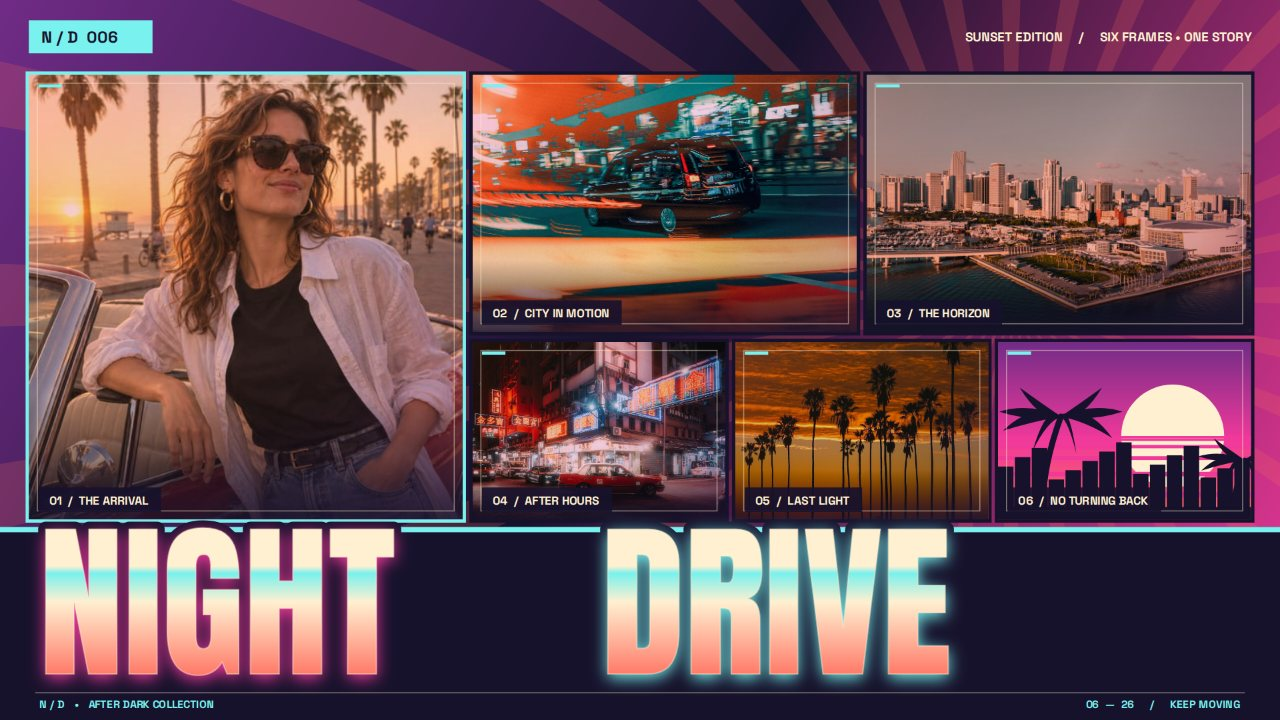
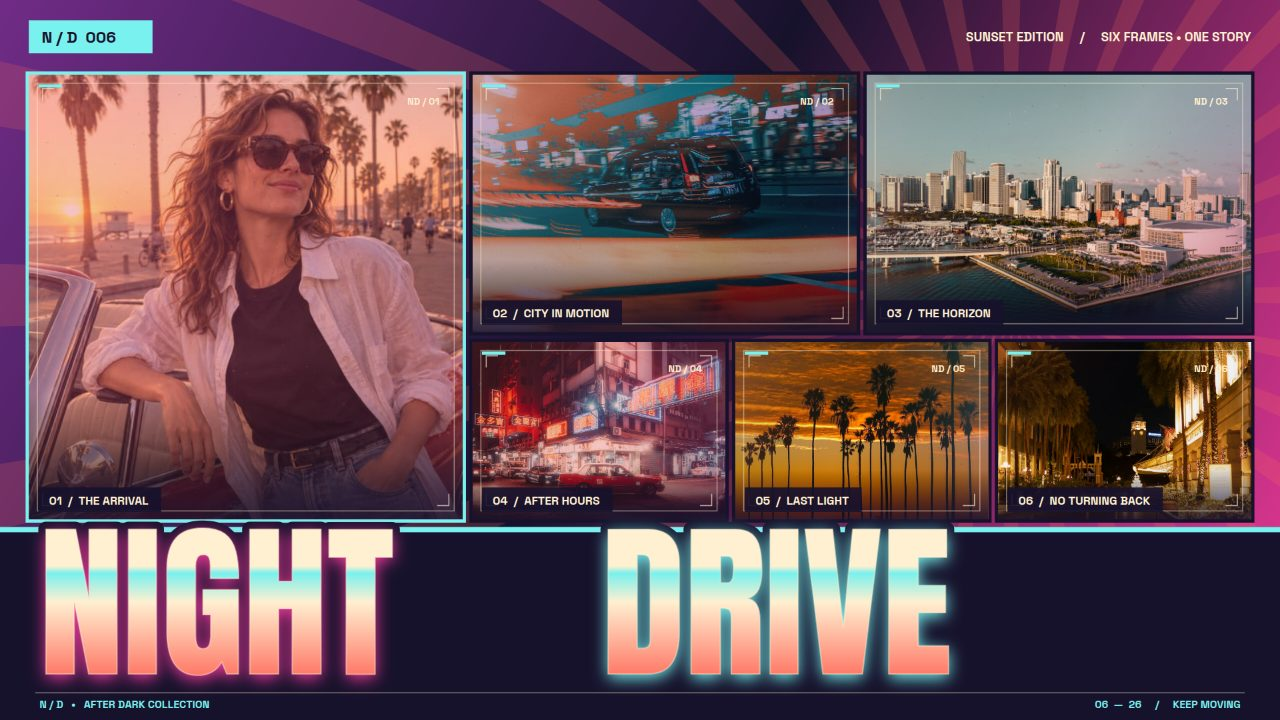
Add six-photo print lab and storyboard controls

diff --git a/app/src/artwork.js b/app/src/artwork.js
@@ -71,7 +71,67 @@ function illustratedFrame(ctx,w,h,p) {
   palm(ctx,w*.93,h*1.19,Math.min(w,h)/320,p.ink);
   box(ctx,0,h*.93,w,h*.07,p.ink);
 }
-function photoInPanel(ctx,img,rect,crop,p,index) {
+// Print treatments are applied in poster space, never destructively to uploaded photos.
+// The grain is a stable coordinate field, not Math.random: exports repeat pixel for pixel.
+function grain(ctx,x,y,w,h,index,amount,p) {
+  if (!amount) return;
+  ctx.save();ctx.beginPath();ctx.rect(x,y,w,h);ctx.clip();
+  let seed=0x9e3779b9 ^ ((index+1)*0x85ebca6b);
+  const random=()=>{seed^=seed<<13;seed^=seed>>>17;seed^=seed<<5;return (seed>>>0)/4294967296;};
+  const count=Math.floor(w*h/180*amount);
+  for(let n=0;n<count;n++) {
+    const px=x+random()*w,py=y+random()*h;
+    ctx.globalAlpha=(.12+random()*.25)*amount;
+    box(ctx,px,py,random()>.9?2:1,random()>.9?2:1,random()>.5?p.cream:p.ink);
+  }
+  ctx.restore();
+}
+function lightLeaks(ctx,x,y,w,h,p,index,strength) {
+  ctx.save();ctx.globalCompositeOperation='screen';
+  const edge=index%2===0?x:x+w;
+  const flare=ctx.createRadialGradient(edge,y+h*.25,0,edge,y+h*.25,Math.max(w,h)*.9);
+  flare.addColorStop(0,p.coral+'aa');flare.addColorStop(.32,p.pink+'44');flare.addColorStop(1,p.pink+'00');
+  ctx.globalAlpha=strength;box(ctx,x,y,w,h,flare);ctx.restore();
+}
+function gradePhoto(ctx,rect,p,index,treatment,strength) {
+  const [x,y,w,h]=rect;
+  if(treatment==='Clean' || strength===0) return;
+  ctx.save();ctx.globalAlpha=strength;
+  if(treatment==='Chromatic') {
+    ctx.globalCompositeOperation='multiply';
+    const wash=ctx.createLinearGradient(x,y,x+w,y+h);
+    wash.addColorStop(0,p.cyan+'c9');wash.addColorStop(.48,p.cream+'55');wash.addColorStop(1,p.pink+'bd');
+    box(ctx,x,y,w,h,wash);
+    ctx.globalCompositeOperation='screen';
+    const rim=ctx.createLinearGradient(x,y,x+w,y);
+    rim.addColorStop(0,p.coral+'50');rim.addColorStop(.5,'#00000000');rim.addColorStop(1,p.cyan+'55');
+    box(ctx,x,y,w,h,rim);
+  } else if(treatment==='Midnight') {
+    ctx.globalCompositeOperation='multiply';
+    box(ctx,x,y,w,h,p.violet+'c4');
+    const moon=ctx.createLinearGradient(x,y,x+w,y+h);
+    moon.addColorStop(0,p.cyan+'80');moon.addColorStop(1,p.ink+'00');
+    ctx.globalCompositeOperation='screen';box(ctx,x,y,w,h,moon);
+  } else {
+    ctx.globalCompositeOperation='multiply';box(ctx,x,y,w,h,p.coral+'8a');
+    ctx.globalCompositeOperation='screen';box(ctx,x,y,w,h,p.pink+'32');
+  }
+  ctx.restore();
+  if(treatment==='Afterglow') lightLeaks(ctx,x,y,w,h,p,index,strength*.72);
+  grain(ctx,x,y,w,h,index,strength*.75,p);
+}
+function registration(ctx,rect,p,index) {
+  const [x,y,w,h]=rect;
+  ctx.save();ctx.strokeStyle=p.cream+'aa';ctx.lineWidth=1;
+  // The asymmetrical crop marks reference a contact print's frame edge.
+  for(const [cx,cy,dx,dy] of [[x+13,y+13,1,1],[x+w-13,y+13,-1,1],[x+13,y+h-13,1,-1],[x+w-13,y+h-13,-1,-1]]) {
+    ctx.beginPath();ctx.moveTo(cx+dx*11,cy);ctx.lineTo(cx,cy);ctx.lineTo(cx,cy+dy*11);ctx.stroke();
+  }
+  ctx.fillStyle=p.cream;ctx.font='700 9px SpaceGrotesk';ctx.textAlign='right';
+  ctx.fillText(`ND / ${String(index+1).padStart(2,'0')}`,x+w-22,y+28);
+  ctx.restore();
+}
+function photoInPanel(ctx,img,rect,crop,p,index,treatment,strength) {
   const [x,y,w,h]=rect;
   ctx.save();ctx.beginPath();ctx.rect(x,y,w,h);ctx.clip();
   if (img) {
@@ -80,19 +140,19 @@ function photoInPanel(ctx,img,rect,crop,p,index) {
     const sx=Math.max(0,Math.min(iw-cw,(iw-cw)*crop.x));
     const sy=Math.max(0,Math.min(ih-ch,(ih-ch)*crop.y));
     ctx.drawImage(img,sx,sy,cw,ch,x,y,w,h);
-    ctx.globalCompositeOperation='multiply';box(ctx,x,y,w,h,(index===0?p.coral:index===2?p.coral:index%2?p.pink:p.violet)+(index===2?'62':'38'));
-    ctx.globalCompositeOperation='source-over';
-    const glow=ctx.createLinearGradient(x,y,x+w,y+h);glow.addColorStop(0,p.coral+'25');glow.addColorStop(.53,'#00000000');glow.addColorStop(1,p.violet+'54');box(ctx,x,y,w,h,glow);
+    gradePhoto(ctx,rect,p,index,treatment,strength);
+    const glow=ctx.createLinearGradient(x,y,x+w,y+h);glow.addColorStop(0,p.coral+'20');glow.addColorStop(.53,'#00000000');glow.addColorStop(1,p.violet+'38');box(ctx,x,y,w,h,glow);
     const shade=ctx.createLinearGradient(0,y,0,y+h);shade.addColorStop(0,'#00000000');shade.addColorStop(.72,'#00000000');shade.addColorStop(1,p.ink+'d9');box(ctx,x,y,w,h,shade);
   } else {ctx.translate(x,y);illustratedFrame(ctx,w,h,p);ctx.translate(-x,-y);}
   // A small inset registration line gives each frame the feel of a printed plate.
   ctx.strokeStyle=p.cream+'75';ctx.lineWidth=1;ctx.strokeRect(x+8,y+8,w-16,h-16);
   ctx.restore();
 }
-function panel(ctx,rect,img,crop,p,index,selected) {
+function panel(ctx,rect,img,crop,p,index,selected,treatment,strength) {
   const [x,y,w,h]=rect;
   box(ctx,x-3,y-3,w+6,h+6,index===selected?p.cyan:p.ink);
-  photoInPanel(ctx,img,rect,crop,p,index);
+  photoInPanel(ctx,img,rect,crop,p,index,treatment,strength);
+  registration(ctx,rect,p,index);
   const tags=['THE ARRIVAL','CITY IN MOTION','THE HORIZON','AFTER HOURS','LAST LIGHT','NO TURNING BACK'];
   const label=`0${index+1}  /  ${tags[index]}`;
   ctx.font='700 11px SpaceGrotesk';ctx.textAlign='left';
@@ -140,7 +200,7 @@ export function drawCover(canvas,state) {
   box(ctx,27,19,116,31,p.cyan);ctx.fillStyle=p.ink;ctx.font='700 15px SpaceGrotesk';ctx.textAlign='left';ctx.fillText('N / D  006',39,40);
   ctx.fillStyle=p.cream;ctx.font='700 12px SpaceGrotesk';ctx.textAlign='right';ctx.fillText('SUNSET EDITION     /     SIX FRAMES • ONE STORY',1173,39);
   const rects=geometry(W,H,state.layout);
-  rects.forEach((r,i)=>panel(ctx,r,state.images[state.assignments[i]??-1],state.crops[i],p,i,state.selected));
+  rects.forEach((r,i)=>panel(ctx,r,state.images[state.assignments[i]??-1],state.crops[i],p,i,state.selected,state.treatments[i],state.gradeStrength));
   headline(ctx,state.caption,W,H,p);
   return rects;
 }

diff --git a/app/src/main.js b/app/src/main.js
@@ -5,7 +5,9 @@ const canvas = $('cover');
 const state = {
   caption: 'NIGHT DRIVE', palette: 'Afterglow', layout: 'Editorial', format: Object.keys(sizes)[0],
   images: [], names: [], assignments: [-1,-1,-1,-1,-1,-1],
-  crops: Array.from({length:6},()=>({x:.5,y:.5,zoom:1})), selected: 0
+  crops: Array.from({length:6},()=>({x:.5,y:.5,zoom:1})),
+  treatments: ['Afterglow','Midnight','Chromatic','Afterglow','Chromatic','Clean'],
+  gradeStrength: .65, selected: 0
 };
 const repaint = () => drawCover(canvas,state);
 function loadImage(url) {
@@ -50,14 +52,14 @@ async function addPhotos(files) {
 }
 async function demo() {
   try {
-    const urls=['./samples/boulevard.jpg','./samples/night-street.jpg','./samples/skyline.jpg','./samples/neon.jpg','./samples/palms.jpg'];
+    const urls=['./samples/boulevard.jpg','./samples/night-street.jpg','./samples/skyline.jpg','./samples/neon.jpg','./samples/palms.jpg','./samples/night-palms.jpg'];
     state.images=await Promise.all(urls.map(loadImage));
-    state.names=['Boulevard portrait','City in motion','Miami skyline','After-hours street','Sunset palms'];
-    state.assignments=[0,1,2,3,4,-1];
-    // Hand-tuned focal points preserve the model portrait's face and the taxi below it.
-    state.crops=[{x:.47,y:.2,zoom:1},{x:.5,y:.67,zoom:1},{x:.5,y:.48,zoom:1},{x:.5,y:.68,zoom:1},{x:.5,y:.47,zoom:1},{x:.5,y:.5,zoom:1}];
+    state.names=['Boulevard portrait','City in motion','Miami skyline','After-hours street','Sunset palms','Palm-lined night street'];
+    state.assignments=[0,1,2,3,4,5];
+    // Hand-tuned focal points preserve the model portrait's face and each street's leading lines.
+    state.crops=[{x:.47,y:.2,zoom:1},{x:.5,y:.67,zoom:1},{x:.5,y:.48,zoom:1},{x:.5,y:.68,zoom:1},{x:.5,y:.47,zoom:1},{x:.56,y:.43,zoom:1}];
     state.selected=0;refreshPhotos();repaint();
-    $('status').textContent='FIVE LOCAL PHOTOS + ORIGINAL ILLUSTRATION · READY';
+    $('status').textContent='SIX LOCAL PHOTOS · SIX DISTINCT FRAMES · READY';
   } catch {$('status').textContent='Could not load local samples';}
 }
 function syncPanel() {
@@ -72,6 +74,9 @@ function syncPanel() {
   [...$('photoList').children].forEach((chip,i)=>chip.classList.toggle('selected',state.assignments[state.selected]===i));
   const crop=state.crops[state.selected];
   $('zoom').value=crop.zoom; $('panX').value=crop.x; $('panY').value=crop.y;
+  $('treatment').value=state.treatments[state.selected];
+  $('gradeStrength').value=state.gradeStrength;
+  $('sourceCount').textContent=`${state.images.length} LOCAL SOURCE${state.images.length===1?'':'S'}`;
 }
 function setFormat(name) {
   state.format=name; [canvas.width,canvas.height]=sizes[name];
@@ -102,6 +107,43 @@ for(const type of ['dragleave','drop']) drop.addEventListener(type,e=>{e.prevent
 drop.addEventListener('drop',e=>addPhotos(e.dataTransfer.files));
 $('panelPhoto').addEventListener('change',e=>{state.assignments[state.selected]=Number(e.target.value);syncPanel();repaint();});
 $('resetCrop').addEventListener('click',()=>{state.crops[state.selected]={x:.5,y:.5,zoom:1};syncPanel();repaint();});
+$('treatment').addEventListener('change',e=>{
+  state.treatments[state.selected]=e.target.value;
+  $('status').textContent=`FRAME ${state.selected+1} · ${e.target.value.toUpperCase()} PRINT`;
+  repaint();
+});
+$('gradeStrength').addEventListener('input',e=>{
+  state.gradeStrength=Number(e.target.value);
+  $('gradeValue').textContent=`${Math.round(state.gradeStrength*100)}%`;
+  repaint();
+});
+function sequencePhotos(offset=0) {
+  if(!state.images.length) {
+    $('status').textContent='ADD A PHOTO OR LOAD THE SAMPLE STORY FIRST';
+    return;
+  }
+  // A storyboard is six independent edits: sequencing never overwrites crops or grades.
+  state.assignments=state.assignments.map((_,i)=>(i+offset+state.images.length)%state.images.length);
+  refreshPhotos();repaint();
+  $('status').textContent=`SIX FRAMES SEQUENCED · ${state.images.length} SOURCE${state.images.length===1?'':'S'}`;
+}
+$('sequence').addEventListener('click',()=>sequencePhotos());
+$('rotate').addEventListener('click',()=>{
+  if(!state.images.length) {sequencePhotos();return;}
+  const next=state.assignments.map((value,i)=>{
+    const current=value<0?i%state.images.length:value;
+    return (current+1)%state.images.length;
+  });
+  state.assignments=next;refreshPhotos();repaint();
+  $('status').textContent='STORY ADVANCED ONE FRAME';
+});
+document.addEventListener('keydown',e=>{
+  if(!['ArrowLeft','ArrowRight'].includes(e.key) ||
+    ['INPUT','TEXTAREA','SELECT'].includes(document.activeElement.tagName)) return;
+  e.preventDefault();
+  state.selected=(state.selected+(e.key==='ArrowRight'?1:5))%6;
+  syncPanel();repaint();
+});
 for(const [id,key] of [['zoom','zoom'],['panX','x'],['panY','y']]) $(''+id).addEventListener('input',e=>{
   state.crops[state.selected][key]=Number(e.target.value); repaint();
 });

diff --git a/app/index.html b/app/index.html
@@ -11,11 +11,12 @@
 <aside class="sidebar">
 <div class="intro"><div class="eyebrow">01 / THE EDIT</div><h1>Make it<br><em>legendary.</em></h1><p>Turn your own photos into a cinematic city story. No accounts, no uploads, just your image and a little attitude.</p></div>
 <div class="field"><div class="label-line"><label for="caption">COVER TITLE</label><span>01 / 05</span></div><input id="caption" type="text" maxlength="38" value="NIGHT DRIVE" spellcheck="false"><small>Try a short, punchy title. Your story, your words.</small></div>
-<div class="field"><div class="label-line"><label for="photos">YOUR PHOTOS</label><span>02 / 05</span></div><label class="drop" id="drop" for="photos"><span class="drop-icon">↥</span><strong>Drop 1–6 photos or browse</strong><span>JPG, PNG, WEBP · stays on this device</span></label><input id="photos" type="file" accept="image/jpeg,image/png,image/webp,image/avif" multiple hidden><div id="photoList" class="photo-list"></div><button id="demo" class="subtle" type="button">↗ Load the six-frame sample story</button></div>
+<div class="field"><div class="label-line"><label for="photos">YOUR PHOTOS</label><span id="sourceCount">0 LOCAL SOURCES</span></div><label class="drop" id="drop" for="photos"><span class="drop-icon">↥</span><strong>Drop 1–6 photos or browse</strong><span>JPG, PNG, WEBP, AVIF · stays on this device</span></label><input id="photos" type="file" accept="image/jpeg,image/png,image/webp,image/avif" multiple hidden><div id="photoList" class="photo-list"></div><button id="demo" class="subtle" type="button">↗ Load the six-frame sample story</button><div class="story-actions"><button id="sequence" type="button">Sequence sources</button><button id="rotate" type="button">Next take ↗</button></div></div>
 <div class="field"><div class="label-line"><label for="layout">COMPOSITION</label><span>03 / 05</span></div><div id="layout" class="segmented" role="group" aria-label="Composition"></div></div>
 <div class="field"><div class="label-line"><label for="palette">COLOR STORY</label><span>04 / 05</span></div><div id="palette" class="swatches" role="group" aria-label="Palette"></div></div>
 <div class="field"><div class="label-line"><label for="format">CANVAS FORMAT</label><span>05 / 05</span></div><select id="format"></select></div>
 <div class="field crop-field"><div class="label-line"><label for="panelPhoto">FRAME <span id="panelNumber">01</span> / SOURCE</label><span>CLICK A FRAME</span></div><div id="frameTabs" class="frame-tabs" role="group" aria-label="Choose a frame"></div><select id="panelPhoto" aria-label="Photo in selected frame"></select><div class="sliders"><label>ZOOM <input id="zoom" type="range" min="1" max="3" step="0.01" value="1"></label><label>HORIZONTAL <input id="panX" type="range" min="0" max="1" step="0.01" value="0.5"></label><label>VERTICAL <input id="panY" type="range" min="0" max="1" step="0.01" value="0.5"></label></div><button id="resetCrop" class="subtle" type="button">↺ Center this crop</button><small>Choose a frame, assign a photo, then drag in the poster to reposition it. One photo can fill every frame.</small></div>
+<div class="field print-field"><div class="label-line"><label for="treatment">PRINT LAB / FRAME <span>✳</span></label><span>06 / 06</span></div><select id="treatment" aria-label="Print treatment for selected frame"><option>Afterglow</option><option>Midnight</option><option>Chromatic</option><option>Clean</option></select><div class="sliders"><label for="gradeStrength">GRADE INTENSITY <output id="gradeValue" for="gradeStrength">65%</output></label><input id="gradeStrength" type="range" min="0" max="1" step="0.01" value="0.65"></div><small>Each frame keeps its own treatment. Intensity sets the whole contact sheet; grain and light leaks are drawn fresh at export, without changing your source photos.</small></div>
 </aside>
 <section class="preview-area"><div class="preview-header"><div><div class="eyebrow">02 / THE COVER</div><h2>Live preview <span>✳</span></h2></div><div id="previewMeta">1920 × 1080 / LANDSCAPE</div></div><div class="stage"><div class="canvas-wrap"><canvas id="cover" width="1920" height="1080" aria-label="Live cover art preview; click a panel to edit its photo"></canvas></div></div><div class="preview-footer"><span><i class="live-dot"></i> LIVE CANVAS <b>·</b> CLICK A PANEL TO EDIT</span><span id="status" role="status">READY TO CREATE</span></div></section>
 <aside class="right-rail"><div class="rail-index">N/D<br>006</div><div class="rail-line"></div><span>YOUR CITY.<br>YOUR STORY.<br>YOUR COVER.</span><div class="rail-line"></div><span class="rail-bottom">EST. AFTER DARK<br>✳ 2026</span></aside>

diff --git a/main.ts b/main.ts
@@ -6,13 +6,52 @@
 // Nightdrive six-frame offline release: copy the tested static editor, locally licensed demo assets
 // and genuine browser captures into the hand-in; never contact an image host at runtime.
 // Keep this entrypoint deterministic: no timestamps, network calls, or generated content enter the dossier.
-import { cpSync, existsSync, mkdirSync, writeFileSync } from 'node:fs';
+import { cpSync, existsSync, mkdirSync, readFileSync, readdirSync, statSync, writeFileSync } from 'node:fs';
 import { join } from 'node:path';
 import { fileURLToPath } from 'node:url';
 import { buildDossier } from './vendor/makefun-app.ts';
 
 const here = fileURLToPath(new URL('.', import.meta.url));
 const out = process.env.MAKEFUN_OUTPUT_DIR ?? '/output';
+
+// Refuse stale or oversized captures before packaging. This is deliberately a
+// header parser, not an image conversion: the repository's browser exports are
+// copied unchanged, and the dossier library validates their full image bytes.
+function jpegDimensions(bytes: Uint8Array): [number, number] {
+  const read16 = (at: number) => bytes[at]! * 256 + bytes[at+1]!;
+  if (read16(0) !== 0xffd8) throw new Error('Screenshot is not a JPEG');
+  let offset = 2;
+  while (offset + 9 < bytes.length) {
+    if (bytes[offset] !== 0xff) throw new Error('Malformed JPEG marker');
+    const marker = bytes[offset + 1];
+    if (marker === 0xd9 || marker === 0xda) break;
+    const length = read16(offset + 2);
+    if (length < 2 || offset + length + 2 > bytes.length) break;
+    if ([0xc0,0xc1,0xc2,0xc3].includes(marker)) {
+      return [read16(offset + 7), read16(offset + 5)];
+    }
+    offset += length + 2;
+  }
+  throw new Error('Screenshot has no JPEG frame header');
+}
+function checkCaptures(dir: string) {
+  const names = readdirSync(dir).sort();
+  if (names.length !== 4 || names[0] !== '1-cover.jpg') {
+    throw new Error('Expected four current cover/editor captures');
+  }
+  for (const name of names) {
+    const path = join(dir, name);
+    if (!/^([1-4])-[a-z]+\.jpg$/.test(name) || !statSync(path).isFile()) {
+      throw new Error(`Unexpected screenshot: ${name}`);
+    }
+    const bytes = readFileSync(path);
+    const [width, height] = jpegDimensions(bytes);
+    if (bytes.length > 262144 || Math.max(width,height) > 1280 || Math.min(width,height) < 480) {
+      throw new Error(`Screenshot outside gate limits: ${name}`);
+    }
+  }
+}
+checkCaptures(join(here, 'screenshots'));
 
 mkdirSync(out, { recursive: true });
 cpSync(join(here, 'app'), join(out, 'app'), { recursive: true });

diff --git a/app/style.css b/app/style.css
@@ -13,3 +13,15 @@
 .bottom-bar{height:68px;border-top:1px solid #303442;background:#171b25;display:flex;align-items:center;gap:35px;padding:0 31px;color:#808894;font-size:10px;letter-spacing:.14em}.bottom-bar>span:first-child{color:#f4eee6}.bottom-bar button{margin-left:auto;border:none;background:#7eece7;color:#10171e;font-size:12px;font-weight:700;letter-spacing:.09em;padding:16px 23px}.bottom-bar button span{font-size:20px;margin-left:28px}
 @media(max-width:1000px){.workspace{grid-template-columns:280px minmax(0,1fr)}.right-rail,.top-note{display:none}.sidebar{padding:24px 17px}.preview-area{padding:25px 19px}.bottom-bar{gap:12px}.bottom-bar>span{display:none}}@media(max-width:720px){.workspace{display:flex;flex-direction:column}.sidebar{max-height:none;order:2}.preview-area{order:1;min-height:440px}.stage{min-height:320px}canvas{max-height:60vh}.bottom-bar{position:sticky;bottom:0}.topbar{height:66px;padding:0 14px}.brand{min-width:0}.brand strong{font-size:12px}.brand small{font-size:8px}.top-export{padding:8px;font-size:9px;margin-left:auto}.top-export span{margin-left:5px}.preview-header #previewMeta{font-size:8px}.preview-header h2{font-size:25px}}
 .frame-tabs{display:flex;gap:5px;margin:0 0 11px}.frame-tabs button{flex:1;border:1px solid #535664;background:#292e3b;color:#c8cbd0;padding:8px 0;font:15px Anton}.frame-tabs button[aria-pressed="true"]{background:#80e9e5;color:#161a25;border-color:#80e9e5}.photo-chip:focus-visible{border-color:#80e9e5}.photo-chip.selected{border-color:#80e9e5;background:#384450}.crop-field .subtle{padding:7px 0 9px}
+/* Storyboard controls stay near the source bin; the print lab is scoped to a frame. */
+.story-actions{display:grid;grid-template-columns:1fr 1fr;gap:7px;margin-top:12px}
+.story-actions button{border:1px solid #58606d;background:#262e39;color:#e6e7df;padding:9px 3px;font-size:10px;letter-spacing:.06em;transition:background .16s,border-color .16s}
+.story-actions button:hover{background:#394755;border-color:#80e9e5}
+.print-field{padding-bottom:27px}
+.print-field .label-line span{color:#fc765e}
+.print-field .sliders{margin-top:17px}
+.print-field .sliders label{font-size:10px}
+.print-field .sliders output{font:14px Anton;color:#7ee9e6}
+.print-field .sliders input{width:100%;margin:0 0 8px;accent-color:#7ee9e6}
+.print-field small{line-height:1.55}
+@media(max-width:720px){.print-field{padding-bottom:16px}.story-actions button{padding:11px 4px}}

diff --git a/README.md b/README.md
@@ -4,18 +4,19 @@
 [![rank](https://make.fun/badge/gta6-cover-art-01/snavvansa/nightdrive-cover/rank.svg)](https://make.fun/bounty/gta6-cover-art-01/leaderboard?utm_source=github&utm_medium=readme&utm_campaign=gta6-cover-art-01)
 [![reward](https://make.fun/badge/gta6-cover-art-01/snavvansa/nightdrive-cover/reward.svg)](https://make.fun/bounty/gta6-cover-art-01?utm_source=github&utm_medium=readme&utm_campaign=gta6-cover-art-01)
 
-Nightdrive is an offline six-frame cover studio that turns personal photos into an original editorial city poster. Add one photo to fill every frame, or add several to sequence them automatically; choose a frame by number or by clicking the poster, swap its image, drag to position, and tune crop and zoom. Download a full-resolution PNG in landscape, square, or portrait. The sunset skyline, palms, sunburst, gradients and lettering treatments are drawn in Canvas; no game artwork or logos are used. User images remain in browser memory. Anton and Space Grotesk are bundled under the SIL Open Font License in `app/fonts/`.
+Nightdrive is an offline six-frame cover studio that turns personal photos into an original editorial city poster. Add one photo to fill every frame, or add several to sequence them automatically; choose a frame by number or by clicking the poster, swap its image, drag to position, and tune crop and zoom. The storyboard controls sequence sources in file order or advance all six frames to a new take without resetting individual crops. The print lab offers four nondestructive per-frame looks (Afterglow, Midnight, Chromatic, Clean), with a global intensity slider; seeded grain, light leaks, registration marks and gradient treatments are drawn locally by Canvas. Download a full-resolution PNG in landscape, square, or portrait. The sunset skyline, palms, sunburst, gradients and lettering treatments are drawn in Canvas; no game artwork or logos are used. User images remain in browser memory. Anton and Space Grotesk are bundled under the SIL Open Font License in `app/fonts/`.
 
 ## Demo image credits and permissions
 
-The five photographic frames use local files under `app/samples/` and never request a network image at runtime. `boulevard.jpg` is the competition kit's image-model-generated sample portrait (and `pier.jpg` is its unused included sample); these are free to use under the kit's RULES.txt. No real-person portrait was sourced from the web. The four other images are Unsplash free photographs, each photo page marked “Free to use under the Unsplash License.” The [Unsplash License](https://unsplash.com/license) permits downloading, copying, modifying and distributing images for commercial or non-commercial use; we do not sell unmodified photos or offer a competing image library.
+The six photographic demo frames use local files under `app/samples/` and never request a network image at runtime. `boulevard.jpg` is the competition kit's image-model-generated sample portrait (and `pier.jpg` is its unused included sample); these are free to use under the kit's RULES.txt. No real-person portrait was sourced from the web. The five other images are Unsplash free photographs, each photo page marked “Free to use under the Unsplash License.” The [Unsplash License](https://unsplash.com/license) permits downloading, copying, modifying and distributing images for commercial or non-commercial use; we do not sell unmodified photos or offer a competing image library.
 
 - `night-street.jpg` — [Car driving through a blurry, neon-lit city street at night](https://unsplash.com/photos/car-driving-through-a-blurry-neon-lit-city-street-at-night-XC1M8M1JjSw), Branislav Rodman.
 - `skyline.jpg` — [City skyline between sky and body of water](https://unsplash.com/photos/city-skyline-between-sky-and-body-of-water-Ev0Vj_0PPck), Alejandro Luengo.
 - `neon.jpg` — [Night scene of a bustling city street with neon signs](https://unsplash.com/photos/night-scene-of-a-bustling-city-street-with-neon-signs--YzK_PrjOhE), ZHENYU LUO.
 - `palms.jpg` — [Palm trees silhouetted against a vibrant sunset sky](https://unsplash.com/photos/palm-trees-silhouetted-against-a-vibrant-sunset-sky-VkdMrEwwXFo), Samantha Rodríguez.
+- `night-palms.jpg` — [Palm trees line a street decorated with lights at night](https://unsplash.com/photos/palm-trees-line-a-street-decorated-with-lights-at-night-4sjGZApRl_E), Raymond Goo. [Image source](https://images.unsplash.com/photo-1767014847349-78327ad5a0f4); downloaded at 1100px wide and bundled locally.
 
-The sixth frame is entirely procedural illustration. These images are used only as a demonstration; the editor accepts the user's own images and does not transmit them.
+A procedural sunset illustration remains selectable for any frame via its Source menu. These images are used only as a demonstration; the editor accepts the user's own images and does not transmit them.
 
 ## Run it
 
